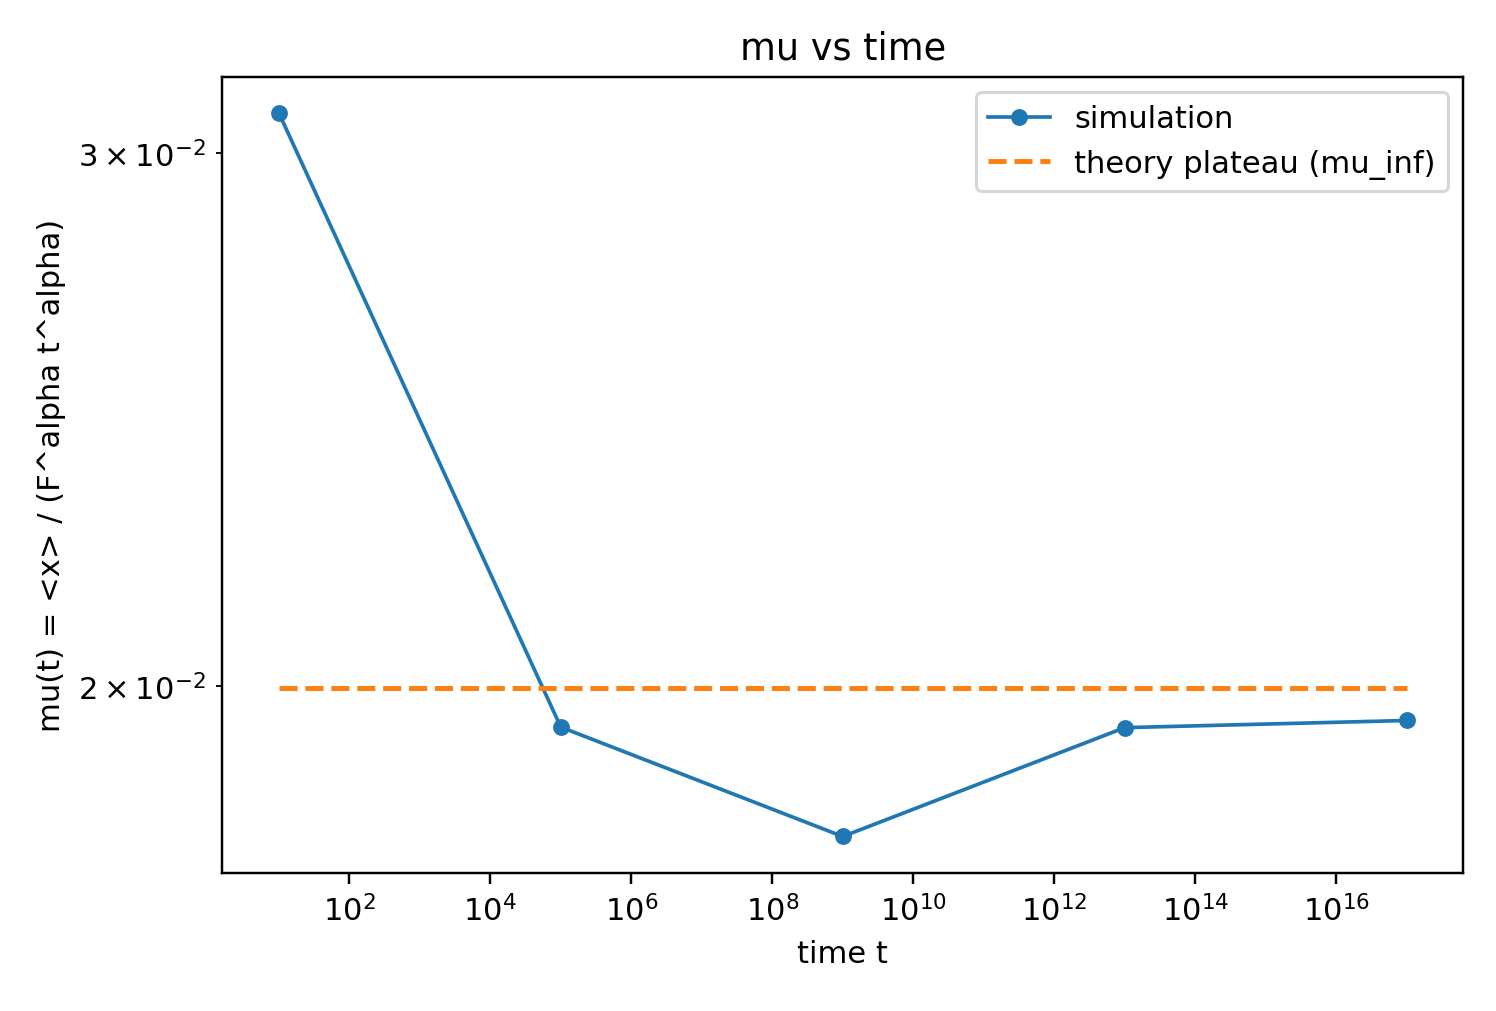
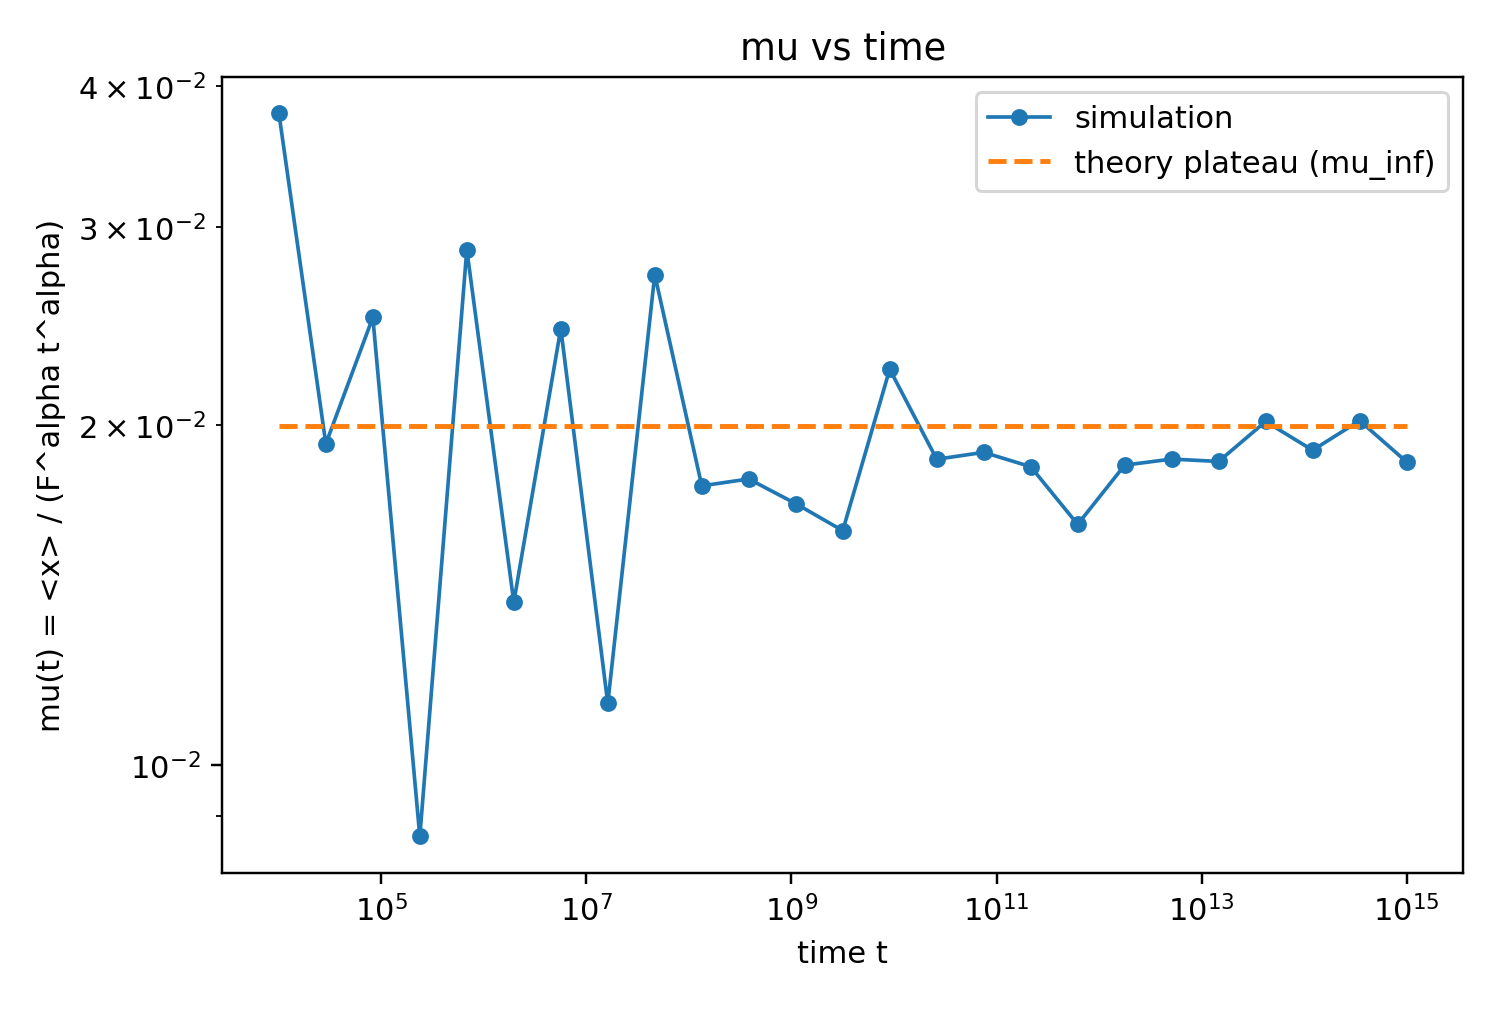
update

diff --git a/muVStime/full_sim_mu_vs_time.cpp b/muVStime/full_sim_mu_vs_time.cpp
@@ -8,10 +8,10 @@ using namespace std;
 struct Args {
     int dim = 3;                // 2 or 3
     int w = 5;                  // strip width in transverse direction(s)
-    int N_traj = 30000;        // trajectories per time point
-    int M = 5;                 // number of time points
-    double t_min = 1e1;
-    double t_max = 1e17;
+    int N_traj = 300000;        // trajectories per time point
+    int M = 25;                 // number of time points
+    double t_min = 1e4;
+    double t_max = 1e15;
     double alpha = 0.3;
     double F = 0.01;            // physical force (used in μ normalization)
     double kappa_alpha = 1.0;   // effective-drift amplitude
